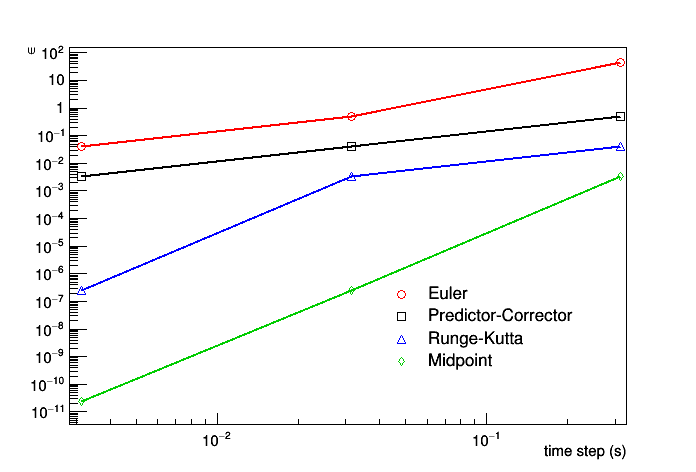
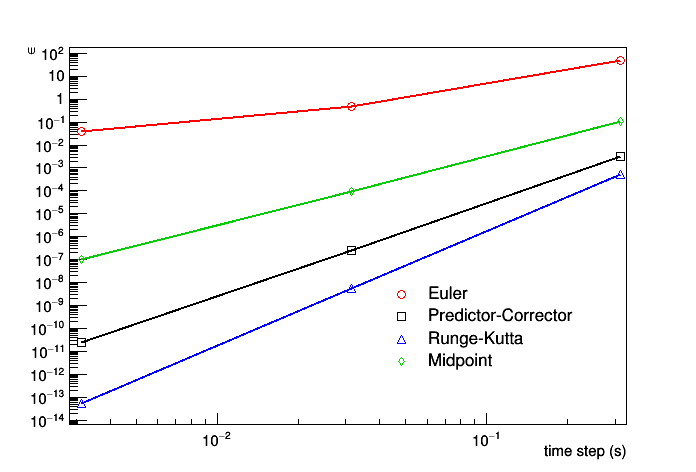
fixed plotting error in energy graph

diff --git a/ode_solver.py b/ode_solver.py
@@ -107,7 +107,7 @@ energy_change_marker_list = [24,25,26,27]
 energy_change_color_list = [kRed,kBlack,kBlue,kGreen+1]
 energy_change_graph_list = []
 for i in range(0,4):
-	energy_change_graph_list.append(TGraph(len(time_step_list),array("d",time_step_list),array("d",energy_change_list[i:i+3])))
+	energy_change_graph_list.append(TGraph(len(time_step_list),array("d",time_step_list),array("d",energy_change_list[i*3:i*3+3])))
 	energy_change_graph_list[i].SetMarkerStyle(energy_change_marker_list[i])
 	energy_change_graph_list[i].SetMarkerColor(energy_change_color_list[i])
 	energy_change_graph_list[i].SetLineColor(energy_change_color_list[i])

diff --git a/ANSWERS.md b/ANSWERS.md
@@ -1,6 +1,8 @@
-1. At all timesteps, the midpoint method conserves energy the best and the euler method does the worst job of conserving energy.
+1. At all timesteps, the runge-kutta method conserves energy the best and the euler method does the worst job of conserving energy.
 The Euler method seems to have linear improvement in energy change with respect to time step.
-Except for the first runge-kutta point, the runge-kutta and the midpoint have 4th order improvement in energy change with respect to time step.
-2. Midpoint needs about 10^2 time steps. Runge-Kutta needs about 10^3 time steps. Euler needs about 10^6 time steps
+The midpoint seems to have 3rd order improvement in energy change with respect to time step.
+The runge-kutta seems to have 4th order improvement in energy change with respect to time step.
+2. Runge-Kutta needs about 50 time steps. Midpont needs about 200 time steps. Euler needs about 10^6 time steps
 In one time step, Euler needs 4 floating point operations, midpoint needs 12 floating point operations, and runge-kutta needs 36 floating point operations.
-In total, Euler needs about 4x10^6, midpoint needs 1.2x10^3, and runge-kutta needs 3.6x10^4 floating point operations.
+In total, Euler needs about 4x10^6, midpoint needs 2400, and runge-kutta needs 1800 floating point operations.
+Even though runge-kutta has better improvement with respect to time step compared to midpoint, it does not save much time.
